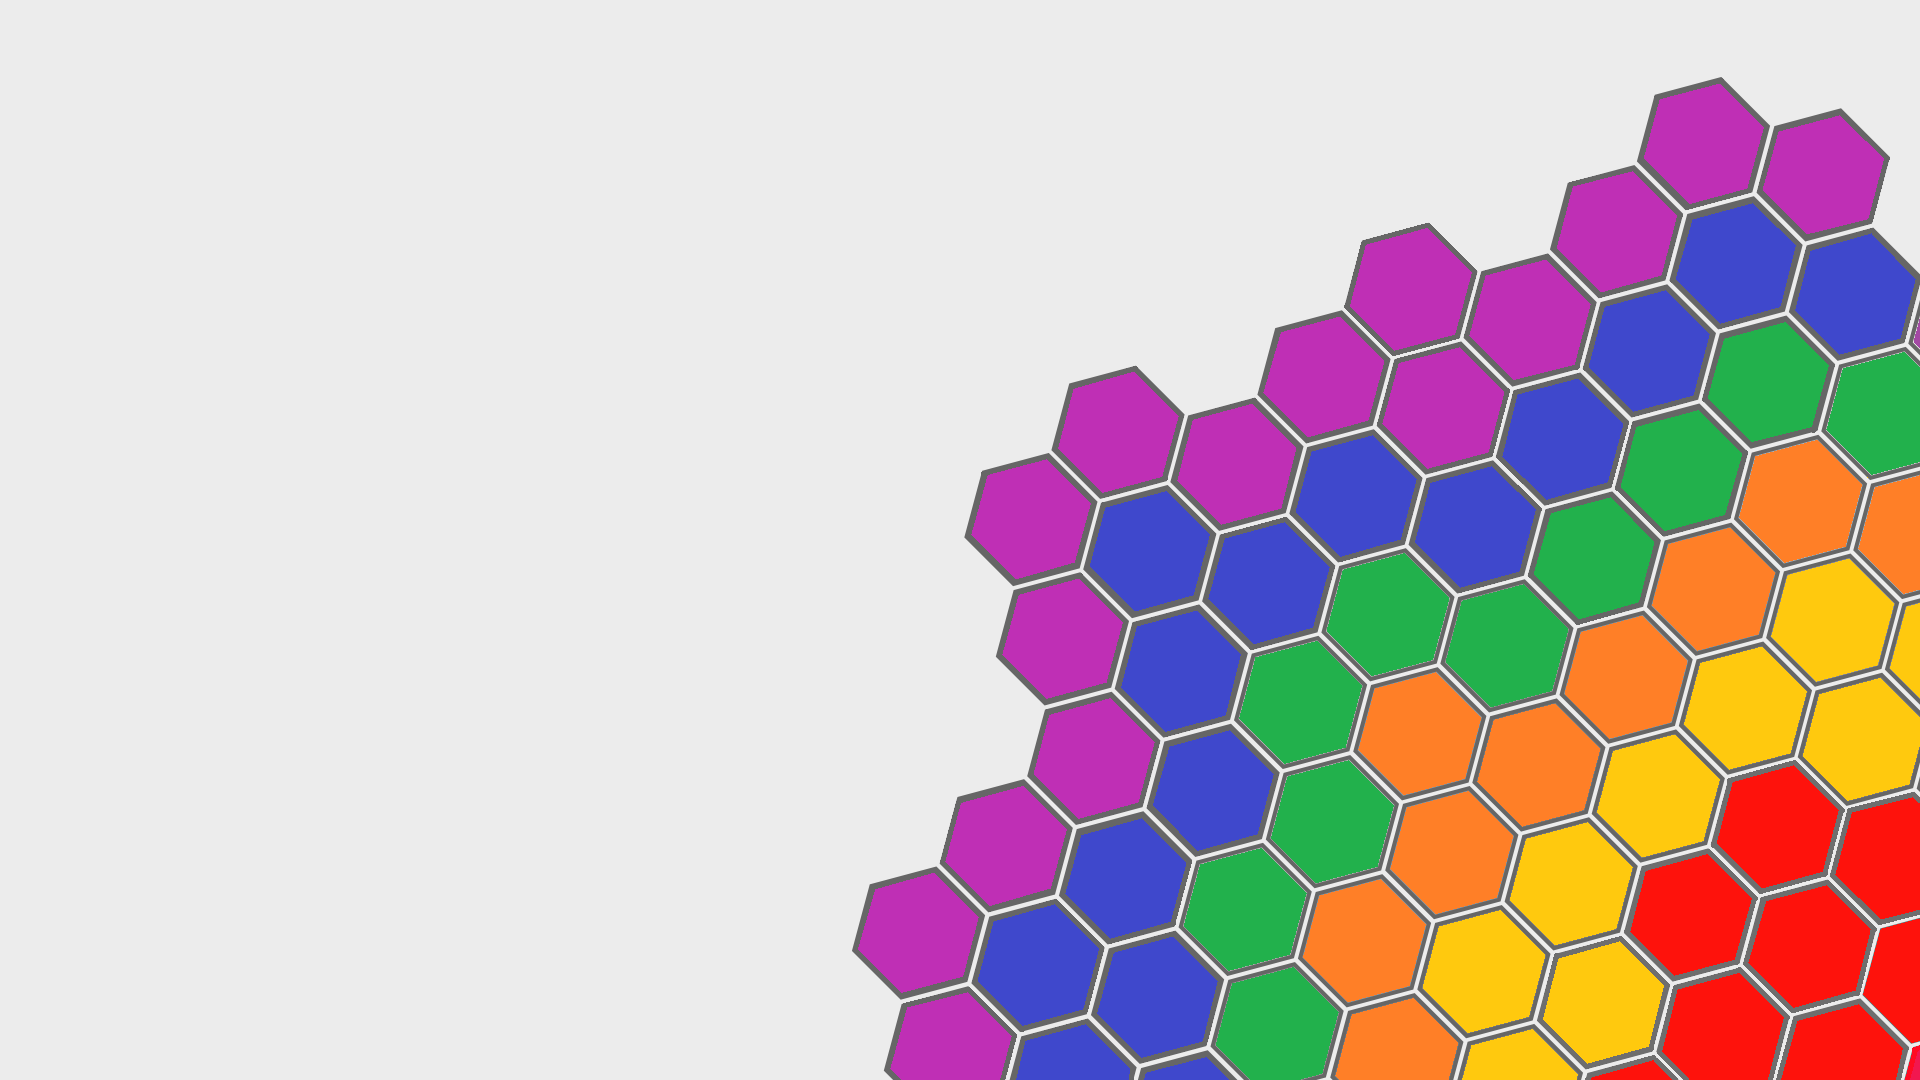
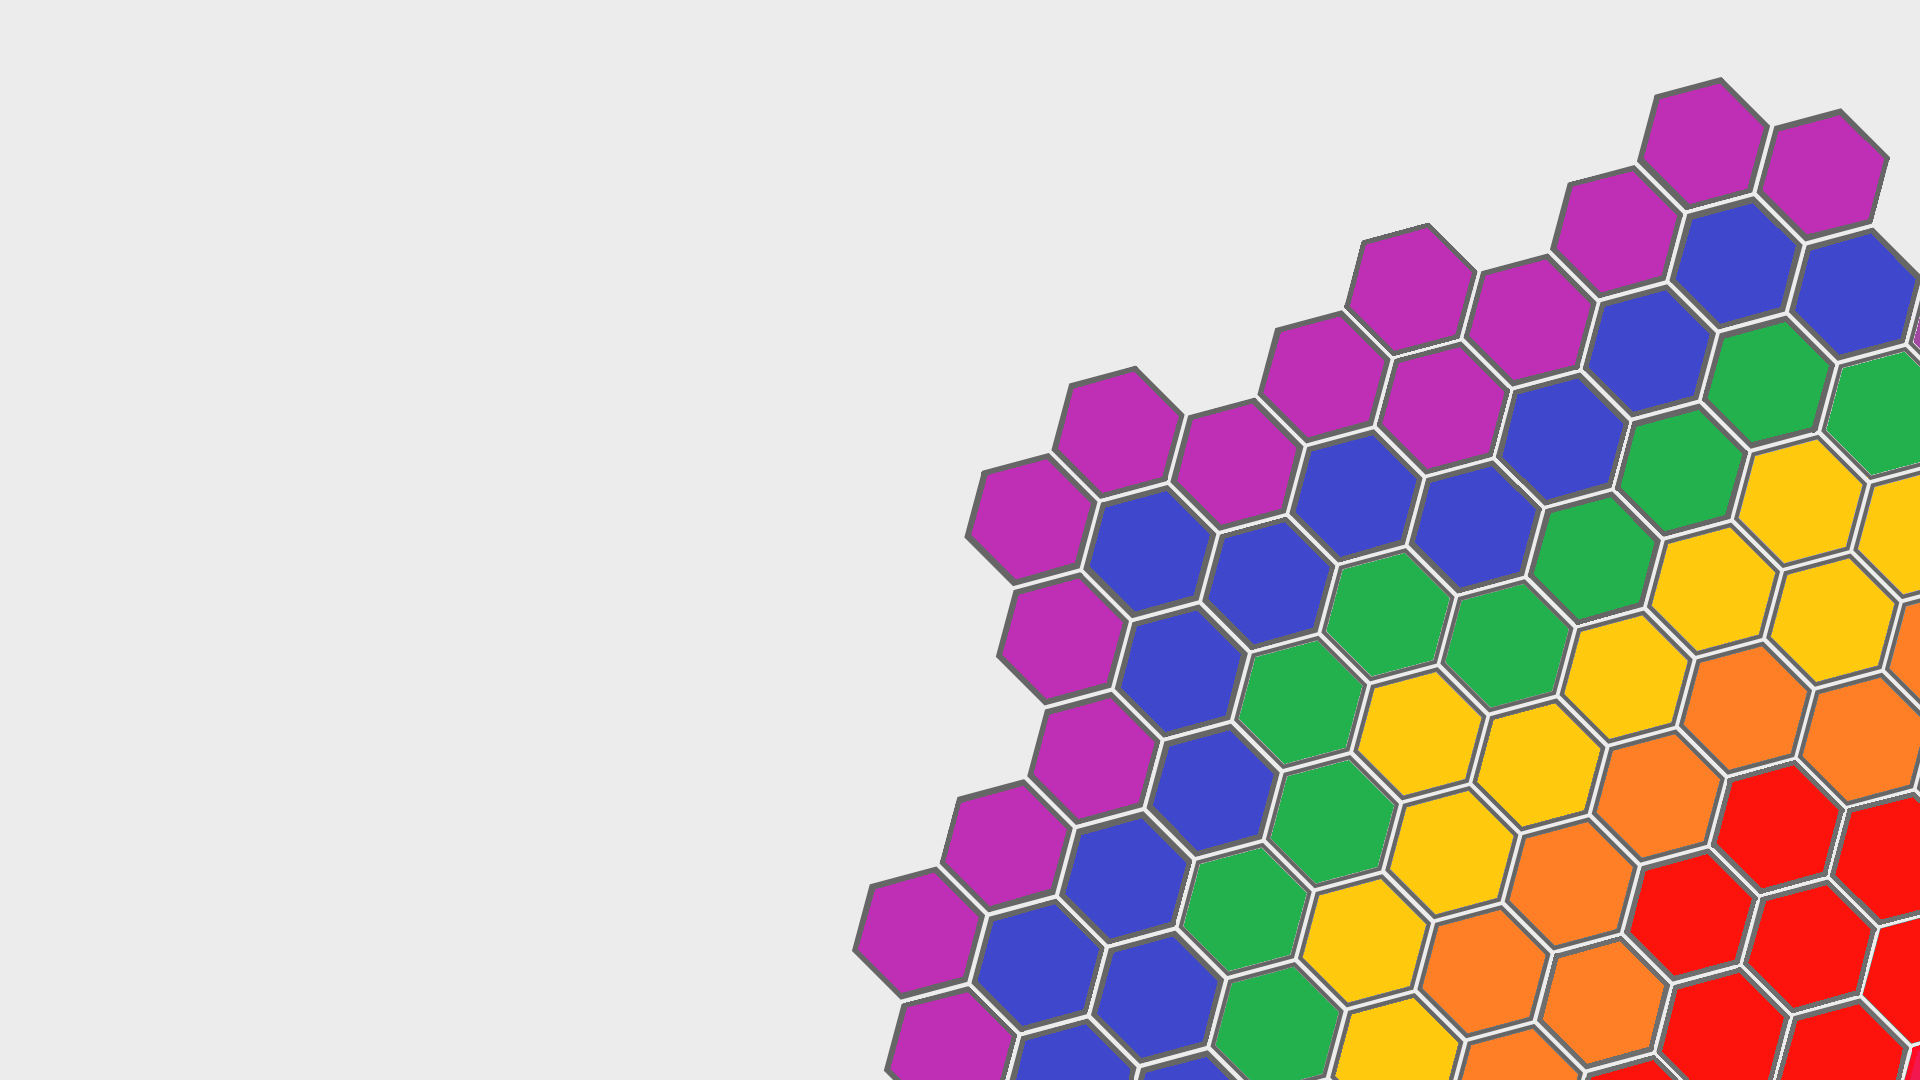
rainbow background fixed (ryogbiv -> roygbiv), duplicate css stuff removed, centered dark mode toggle button

Changed region(s): [[0.6562, 0.3972, 1.0, 1.0]]

diff --git a/index.html b/index.html
@@ -1,37 +1,36 @@
 <html>
-<head>
-<meta charset="utf-8">
-<link rel="stylesheet" type="text/css" href="./style.css">
-<link rel="stylesheet" href="https://cdnjs.cloudflare.com/ajax/libs/font-awesome/6.2.1/css/all.min.css" integrity="sha512-MV7K8+y+gLIBoVD59lQIYicR65iaqukzvf/nwasF0nqhPay5w/9lJmVM2hMDcnK1OnMGCdVK+iQrJ7lzPJQd1w==" crossorigin="anonymous" referrerpolicy="no-referrer" />
-<link href='http://fonts.googleapis.com/css?family=Ubuntu' rel='stylesheet' type='text/css' />
-<title>Xiler</title>
-</head>
+    <head>
+    <meta charset="utf-8">
+    <link rel="stylesheet" type="text/css" href="./style.css">
+    <link rel="stylesheet" href="https://cdnjs.cloudflare.com/ajax/libs/font-awesome/6.2.1/css/all.min.css" integrity="sha512-MV7K8+y+gLIBoVD59lQIYicR65iaqukzvf/nwasF0nqhPay5w/9lJmVM2hMDcnK1OnMGCdVK+iQrJ7lzPJQd1w==" crossorigin="anonymous" referrerpolicy="no-referrer" />
+    <link href='http://fonts.googleapis.com/css?family=Ubuntu' rel='stylesheet' type='text/css' />
+    <title>Xiler</title>
+    </head>
+    <body onload=startup()>
+        <ul>
+            <div class="grid-container">
+                <li><a href="./">Home</a></li>
+                <li><a href="./links">Links</a></li>
+                <li><a href="./projects">Projects</a></li>
+                <li class="padding-top">
+                    <button id="dark-mode" class = "button" onclick="changeModeText()">
+                    <div id="mode-text"> Dark Mode <i class="fas fa-power-off"></i></div></button>
+                </li>
 
-<body onload=startup()>
-    <ul>
-        <div class="grid-container">
-            <li><a href="./">Home</a></li>
-            <li><a href="./links">Links</a></li>
-            <li><a href="./projects">Projects</a></li>
-            <li class="padding-top">
-                <button id="dark-mode" class = "button" onclick="changeModeText()">
-                <div id="mode-text"> Dark Mode <i class="fas fa-power-off"></i></div></button>
-            </li>
-
-            <li>
-                <div>
-                    <div class="dropdown">
-                        <span> <i class="fa fa-grip-lines fa-lg"></i> </span>
-                        <div class="dropdown-content">
-                            <a href="./">Home</a>
-                            <a href="./links">Links</a>
-                            <a href="./projects">Projects</a>
+                <li>
+                    <div>
+                        <div class="dropdown">
+                            <span> <i class="fa fa-grip-lines fa-lg"></i> </span>
+                            <div class="dropdown-content">
+                                <a href="./">Home</a>
+                                <a href="./links">Links</a>
+                                <a href="./projects">Projects</a>
+                            </div>
                         </div>
                     </div>
-                </div>
-            </li>
-        </div>
-    </ul>
-</body>
+                </li>
+            </div>
+        </ul>
+    </body>
 <script src="./script.js"></script>
 </html>

diff --git a/style.css b/style.css
@@ -9,13 +9,9 @@ body {
 }
 body.dark-mode {
 	background-image:url("./photos/bg-inverted.png");
-	background-repeat:no-repeat;
-	background-size:cover;
 }
 body.rainbow-mode {
 	background-image:url("./photos/bg-rainbow.png");
-	background-repeat:no-repeat;
-	background-size:cover;
 }
 .grid-container {
 	display:grid;
@@ -36,12 +32,7 @@ ul {
 	opacity:0.8;
 }
 ul.dark-mode {
-	list-style-type:none;
-	margin:0;
-	padding:0;
-	overflow:hidden;
 	background-color:rgba(148,148,148,0);
-	opacity:0.8;
 }
 h1 {
 	font-family:"Ubuntu",sans-serif;
@@ -51,11 +42,8 @@ h1 {
 	position:fixed;
 }
 h1.dark-mode {
-	font-family:"Ubuntu",sans-serif;
-	font-size:180px;
 	color:rgb(156,153,153);
 	text-shadow:2px 2px 3px #646363;
-	position:fixed;
 }
 h3 {
 	font-family:"Ubuntu",sans-serif;
@@ -64,21 +52,18 @@ h3 {
 	position:fixed;
 }
 h3.dark-mode {
-	font-family:"Ubuntu",sans-serif;
-	font-size:40px;
 	color:rgb(156,153,153);
-	position:fixed;
 }
 button {
+	position: relative;
+	left: 50%;
+	transform: translateX(-50%);
 	border:0;
 	outline:0;
 	border-radius:10px;
 	background-color:rgb(196,196,196);
 }
 button.dark-mode {
-	border:0;
-	outline:0;
-	border-radius:10px;
 	background-color:rgb(85,85,85);
 	color:white;
 }
@@ -91,11 +76,7 @@ li {
 	margin-right:30px;
 	opacity:1;
 }
-li.dark-mode {
-	float:left;
-	margin-right:30px;
-	opacity:1;
-}
+
 li a {
 	display: inline-block;
 	text-align:center;
@@ -105,11 +86,6 @@ li a {
 	color:black;
 }
 li.dark-mode a {
-	display:block;
-	text-align:center;
-	padding:14px 20px;
-	text-decoration:none;
-	font-size:large;
 	color:white;
 }
 
@@ -118,32 +94,33 @@ li a:hover {
 	border-radius:10px;
 }
 .dropdown {
-    position:relative;
-	display:block;
-	padding:10px 20px;
-	float:left;
+	position: relative;
+	display: block;
+	padding: 10px 20px;
+	margin-top: 0px;
+	float: right;
 }
 .dropdown span {
-	display:block;
-	padding:14px 20px;
-	text-decoration:none;
-	color:rgb(66,66,66);
-	cursor:pointer;
+	display: block;
+	padding: 14px 20px;
+	text-decoration: none;
+	color: rgb(66, 66, 66);
+	cursor: pointer;
 }
 .dropdown .dropdown-content {
-	display:none;
-	position:absolute;
-	background-color:rgb(196,196,196);
-	min-width:160px;
-	box-shadow:0px 8px 16px 0px rgba(109,109,109,0.2);
-	z-index:1;
-	border-radius:10px;
+	display: none;
+	background-color: rgb(196, 196, 196);
+	min-width: 160px;
+	box-shadow: 0px 8px 16px 0px rgba(109, 109, 109, 0.2);
+	z-index: 1;	
+	border-radius: 10px;
+	float: right;
 }
 .dropdown .dropdown-content a {
-	color:rgb(66,66,66);
-	padding:12px 20px;
-	text-decoration:none;
-	display:block;
+	color: rgb(66, 66, 66);
+	padding: 12px 20px;
+	text-decoration: none;
+	display: block;
 }
 .dropdown .dropdown-content a:hover {
 	background-color:rgb(167,167,167);
